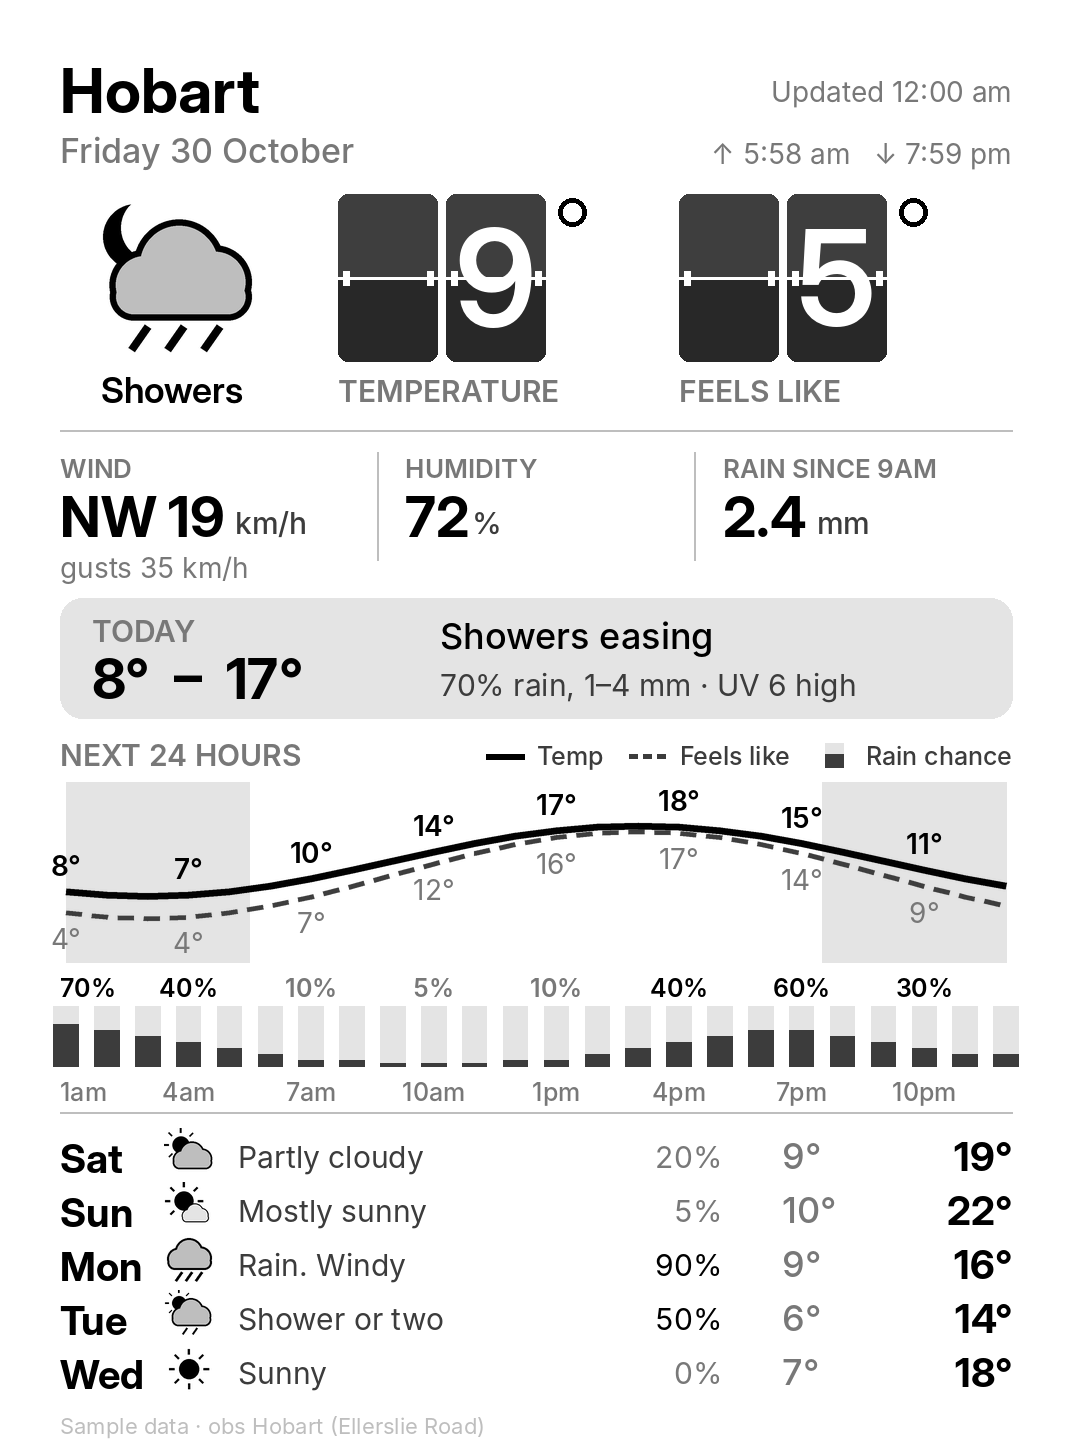
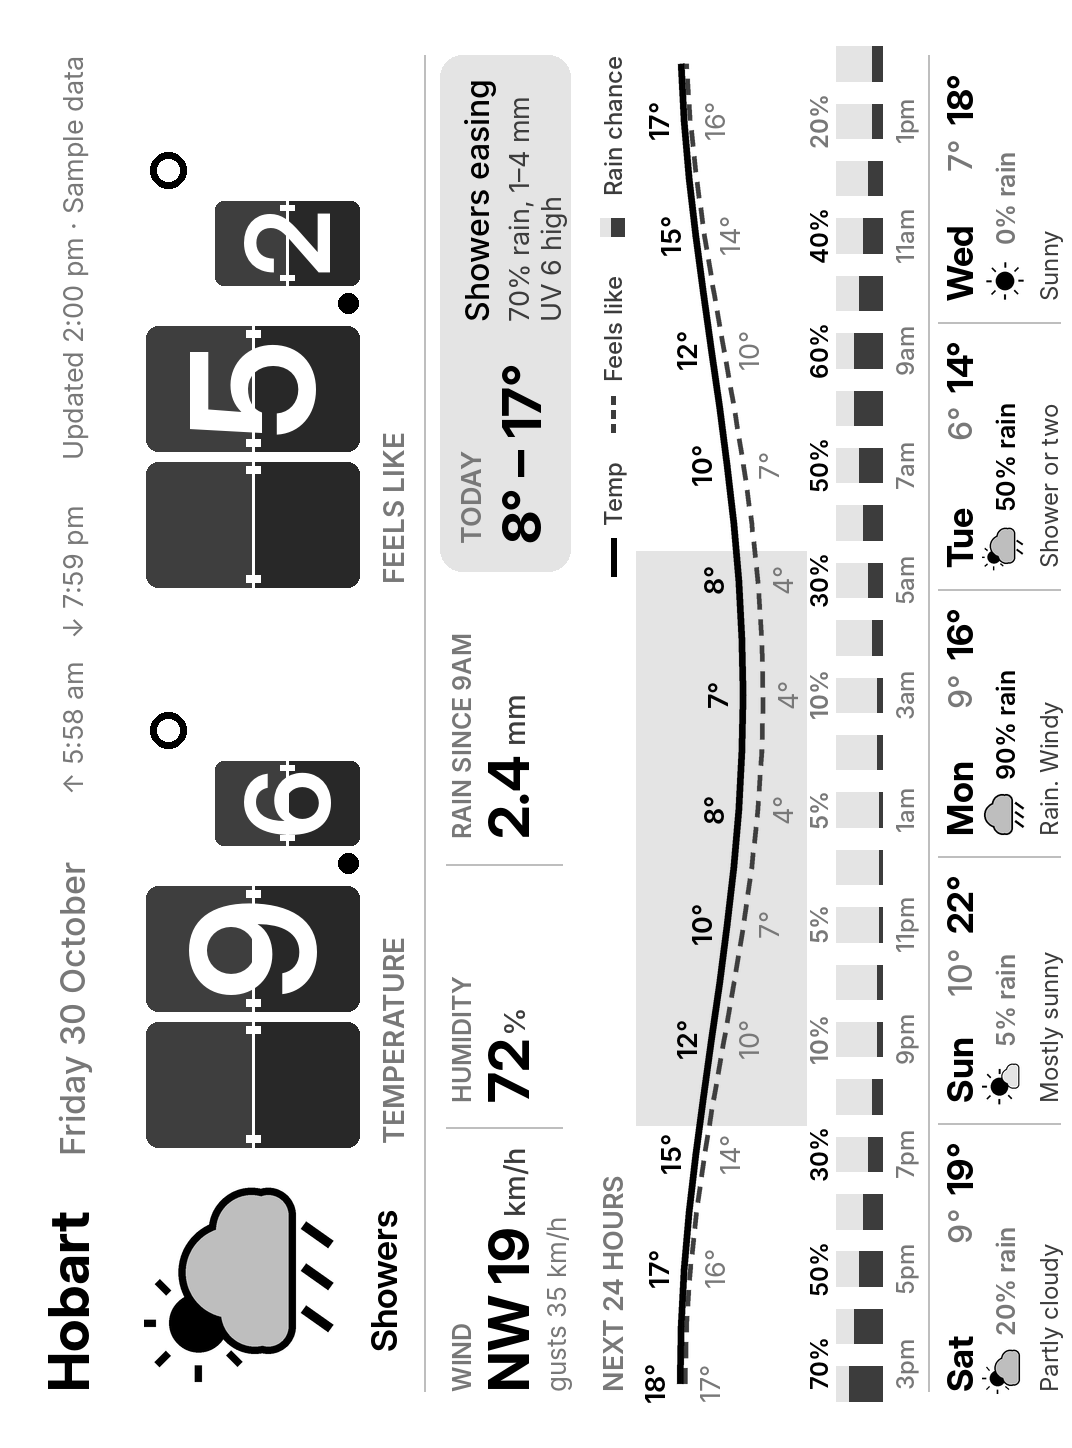
Landscape layout (port on the left), one-decimal flap tiles, partial refresh
- Draw at 1448x1072 and rotate a quarter turn anticlockwise for the Kindle; publish an
  upright preview.png for browsers.
- Temperature and feels like both shown to one decimal place on split-flap tiles.
- delta/update.txt lists the flip frames and the changed rectangles (computed against the
  previous published screen); the Kindle redraws only those, with a full refresh every
  ~3 hours and at 3am. 'Updated' only moves when the screen content changes.
- Kindle extension: in-place updates, pre-drawn offline/low-battery banners, a test that
  exercises every update mode.

Claude-Session: https://claude.ai/code/session_011fPc2cCtWSeq6be4sANHjV

diff --git a/render.py b/render.py
@@ -27,8 +27,8 @@ from PIL import Image, ImageDraw, ImageFont
 PLACE = "Hobart"
 LAT, LON = -42.8821, 147.3272
 TZ = ZoneInfo("Australia/Hobart")
-W, H = 1072, 1448                     # Paperwhite 3 portrait, 300 ppi
-M = 60                                # outer margin
+W, H = 1448, 1072                     # drawn in landscape; rotated to the Kindle's 1072x1448 portrait
+M = 56                                # outer margin
 HERE = Path(__file__).resolve().parent
 FONTS = HERE / "fonts"
 UA = "Mozilla/5.0 (kindle-weather dashboard; personal use)"
@@ -615,76 +615,63 @@ def text_w(d, txt, f):
 
 
 def render(data: dict, now: datetime, updated: datetime | None = None) -> Image.Image:
+    """Draw the dashboard in landscape (1448x1072), as the viewer sees it."""
     img = Image.new("L", (W, H), WHITE)
     d = ImageDraw.Draw(img)
 
-    f_place = font("InterDisplay-Bold", 62)
-    f_date = font("Inter-Medium", 34)
-    f_small = font("Inter-Regular", 28)
-    f_small_b = font("Inter-SemiBold", 28)
-    f_temp = font("InterDisplay-SemiBold", 220)
-    f_cond = font("InterDisplay-SemiBold", 46)
-    f_det = font("Inter-Regular", 33)
-    f_det_b = font("Inter-SemiBold", 33)
-    f_h2 = font("Inter-SemiBold", 30)
-    f_row = font("Inter-Medium", 36)
-    f_row_b = font("InterDisplay-Bold", 40)
-    f_row_s = font("Inter-Regular", 30)
-    f_axis = font("Inter-Medium", 25)
+    f_small = font("Inter-Regular", 27)
+    f_small_b = font("Inter-SemiBold", 27)
+    f_h2 = font("Inter-SemiBold", 27)
+    f_axis = font("Inter-Medium", 24)
 
     days = data.get("days") or []
     hourly = [h for h in (data.get("hourly") or []) if h["time"] and h["time"] > now][:24]
     now_obs = data.get("now") or {}
     today = next((x for x in days if x["date"] == now.date()), days[0] if days else {})
     tomorrow_idx = next((i for i, x in enumerate(days) if x["date"] > now.date()), None)
-
-    # is it night? use today's sunrise/sunset when known
     sr, ss = today.get("sunrise"), today.get("sunset")
     night = bool(sr and ss and not (sr <= now <= ss))
 
     # ---- header
-    y = 52
-    d.text((M, y), PLACE, font=f_place, fill=BLACK)
-    d.text((M, y + 78), now.strftime("%A %-d %B"), font=f_date, fill=MID)
-    upd = f"Updated {fmt_time(updated or now)}"
-    d.text((W - M - text_w(d, upd, f_small), y + 22), upd, font=f_small, fill=MID)
+    d.text((M, 34), PLACE, font=font("InterDisplay-Bold", 56), fill=BLACK)
+    d.text((M + 236, 52), now.strftime("%A %-d %B"), font=font("Inter-Medium", 34), fill=MID)
+    src = " + ".join(sorted(data.get("sources") or []))
+    right = f"Updated {fmt_time(updated or now)}" + (f" · {src}" if src else "")
     if sr and ss:
-        sun = f"↑ {fmt_time(sr)}   ↓ {fmt_time(ss)}"
-        d.text((W - M - text_w(d, sun, f_small), y + 84), sun, font=f_small, fill=MID)
+        right = f"↑ {fmt_time(sr)}   ↓ {fmt_time(ss)}      " + right
+    d.text((W - M - text_w(d, right, f_small), 56), right, font=f_small, fill=MID)
 
-    # ---- hero: icon | temperature | feels like  (equal weight)
-    hero_y = 188
+    # ---- hero: icon | temperature | feels like
     global HERO_BOX
-    HERO_BOX = (M + 270, hero_y, W - M, hero_y + 182)
+    hy = 140
     h0 = hourly[0] if hourly else {}
     icon_now = now_obs.get("icon") or h0.get("icon") or today.get("icon")
-    draw_icon(img, icon_now, (M + 12, hero_y + 2, M + 212, hero_y + 182), night=night)
+    draw_icon(img, icon_now, (M + 6, hy + 4, M + 216, hy + 214), night=night)
     cond = NOW_TEXT.get((icon_now or "").lower(), "")
     if night and cond in ("Sunny", "Mostly sunny"):
         cond = {"Sunny": "Clear", "Mostly sunny": "Mostly clear"}[cond]
     f_cond = font("InterDisplay-SemiBold", 36)
-    d.text((M + 112 - text_w(d, cond, f_cond) / 2, hero_y + 180), cond, font=f_cond, fill=BLACK)
+    d.text((M + 111 - text_w(d, cond, f_cond) / 2, hy + 222), cond, font=f_cond, fill=BLACK)
 
     t_now = now_obs.get("temp") if now_obs.get("temp") is not None else h0.get("temp")
     f_now = now_obs.get("feels") if now_obs.get("feels") is not None else h0.get("feels")
-    col_w = (W - M - (M + 270)) // 2
-    for ci, (val, lab) in enumerate(((t_now, "TEMPERATURE"), (f_now, "FEELS LIKE"))):
-        cx0 = M + 270 + ci * col_w
+    cols = ((t_now, "TEMPERATURE", "temp", 300), (f_now, "FEELS LIKE", "feels", 860))
+    HERO_BOX = (290, hy, W - M, hy + 236)
+    for val, lab, key, cx0 in cols:
         if FLAP:
-            key = "temp" if ci == 0 else "feels"
             specs = (TILE_OVERRIDE or {}).get(key) or list(tile_text(val, 1))
-            draw_flap_number(img, specs, cx0 + 8, hero_y + 6)
+            draw_flap_number(img, specs, cx0, hy + 6, tile_w=126, tile_h=214)
         else:
-            d.text((cx0, hero_y - 22), deg(val), font=font("InterDisplay-SemiBold", 190), fill=BLACK)
-        d.text((cx0 + 8, hero_y + 184), lab, font=font("Inter-SemiBold", 30), fill=MID)
+            d.text((cx0, hy - 30), deg(val), font=font("InterDisplay-SemiBold", 250), fill=BLACK)
+        d.text((cx0 + 4, hy + 236), lab, font=font("Inter-SemiBold", 28), fill=MID)
 
-    # ---- stats strip: wind | humidity | rain since 9am
-    sy0 = 452
-    d.line((M, sy0 - 22, W - M, sy0 - 22), fill=LIGHT, width=2)
-    f_lab = font("Inter-SemiBold", 26)
+    # ---- stats (left) + day panel (right)
+    sy = 446
+    d.line((M, sy - 22, W - M, sy - 22), fill=LIGHT, width=2)
+    f_lab = font("Inter-SemiBold", 25)
     f_val = font("InterDisplay-Bold", 56)
-    f_unit = font("Inter-Medium", 30)
-    f_sub = font("Inter-Regular", 28)
+    f_unit = font("Inter-Medium", 29)
+    f_sub = font("Inter-Regular", 26)
     stats = []
     if now_obs.get("wind_kmh") is not None:
         stats.append(("WIND", f"{now_obs.get('wind_dir') or ''} {round(now_obs['wind_kmh'])}".strip(), " km/h",
@@ -693,31 +680,34 @@ def render(data: dict, now: datetime, updated: datetime | None = None) -> Image.
         stats.append(("HUMIDITY", f"{round(now_obs['humidity'])}", "%", ""))
     if now_obs.get("rain_since_9am") is not None:
         stats.append(("RAIN SINCE 9AM", f"{now_obs['rain_since_9am']:g}", " mm", ""))
-    elif pday_preview := (today.get("rain_chance")):
-        stats.append(("RAIN CHANCE", f"{pday_preview}", "%", "today"))
+    elif today.get("rain_chance") is not None:
+        stats.append(("RAIN CHANCE", f"{today['rain_chance']}", "%", "today"))
+    sx0, sx1 = M, 846
     if stats:
-        sw = (W - 2 * M) / len(stats)
+        sw = (sx1 - sx0) / len(stats)
         for i, (lab, val, unit, sub) in enumerate(stats):
-            x0 = M + i * sw + (0 if i == 0 else 28)
+            x0 = sx0 + i * sw + (0 if i == 0 else 26)
             if i:
-                d.line((M + i * sw, sy0, M + i * sw, sy0 + 108), fill=LIGHT, width=2)
-            d.text((x0, sy0), lab, font=f_lab, fill=MID)
-            d.text((x0, sy0 + 30), val, font=f_val, fill=BLACK)
-            d.text((x0 + text_w(d, val, f_val) + 2, sy0 + 52), unit, font=f_unit, fill=DARK)
+                d.line((sx0 + i * sw, sy, sx0 + i * sw, sy + 116), fill=LIGHT, width=2)
+            d.text((x0, sy), lab, font=f_lab, fill=MID)
+            d.text((x0, sy + 28), val, font=f_val, fill=BLACK)
+            d.text((x0 + text_w(d, val, f_val) + 2, sy + 50), unit, font=f_unit, fill=DARK)
             if sub:
-                d.text((x0, sy0 + 98), sub, font=f_sub, fill=MID)
+                d.text((x0, sy + 94), sub, font=f_sub, fill=MID)
 
-    # ---- day summary panel (today, or tomorrow once it's evening)
-    py0, py1 = 598, 718
     show_tomorrow = now.hour >= 18 and tomorrow_idx is not None
     pday = days[tomorrow_idx] if show_tomorrow else today
-    d.rounded_rectangle((M, py0, W - M, py1), radius=22, fill=PALE)
-    label = "Tomorrow" if show_tomorrow else "Today"
-    d.text((M + 32, py0 + 14), label.upper(), font=f_h2, fill=MID)
-    hi_lo = f"{deg(pday.get('min'))}  –  {deg(pday.get('max'))}"
-    d.text((M + 32, py0 + 46), hi_lo, font=font("InterDisplay-Bold", 56), fill=BLACK)
-    rx = M + 380
-    d.text((rx, py0 + 16), (pday.get("text") or "").rstrip("."), font=f_row, fill=BLACK)
+    px0, py0, px1, py1 = 876, sy - 6, W - M, sy + 124
+    d.rounded_rectangle((px0, py0, px1, py1), radius=22, fill=PALE)
+    d.text((px0 + 28, py0 + 14), ("Tomorrow" if show_tomorrow else "Today").upper(), font=f_h2, fill=MID)
+    d.text((px0 + 28, py0 + 48), f"{deg(pday.get('min'))} – {deg(pday.get('max'))}",
+           font=font("InterDisplay-Bold", 54), fill=BLACK)
+    tx = px0 + 250
+    text = (pday.get("text") or "").rstrip(".")
+    f_pt = font("Inter-Medium", 32)
+    while text and text_w(d, text, f_pt) > px1 - tx - 20:
+        text = text[:-2].rstrip() + "…"
+    d.text((tx, py0 + 18), text, font=f_pt, fill=BLACK)
     bits = []
     if pday.get("rain_chance") is not None:
         r = f"{pday['rain_chance']}% rain"
@@ -727,19 +717,20 @@ def render(data: dict, now: datetime, updated: datetime | None = None) -> Image.
         bits.append(r)
     if pday.get("uv") is not None:
         bits.append(f"UV {round(pday['uv'])} {uv_word(pday['uv']).lower()}")
-    d.text((rx, py0 + 68), " · ".join(bits), font=f_row_s, fill=DARK)
+    f_pb = font("Inter-Regular", 27)
+    d.text((tx, py0 + 62), bits[0] if bits else "", font=f_pb, fill=DARK)
+    if len(bits) > 1:
+        d.text((tx, py0 + 94), bits[1], font=f_pb, fill=DARK)
 
-    # ---- hourly chart: temperature (solid) + feels like (dashed) + rain chance bars
-    cy0 = 736
+    # ---- 24-hour chart
+    cy0 = 596
     d.text((M, cy0), "NEXT 24 HOURS", font=f_h2, fill=MID)
-    # legend
     lx = W - M
     for name, kind in (("Rain chance", "bar"), ("Feels like", "dash"), ("Temp", "solid")):
-        tw = text_w(d, name, f_axis)
-        lx -= tw
-        d.text((lx, cy0 + 4), name, font=f_axis, fill=DARK)
+        lx -= text_w(d, name, f_axis)
+        d.text((lx, cy0 + 2), name, font=f_axis, fill=DARK)
         lx -= 50
-        ly = cy0 + 20
+        ly = cy0 + 17
         if kind == "solid":
             d.line((lx, ly, lx + 38, ly), fill=BLACK, width=6)
         elif kind == "dash":
@@ -748,10 +739,11 @@ def render(data: dict, now: datetime, updated: datetime | None = None) -> Image.
         else:
             d.rectangle((lx + 10, ly - 13, lx + 28, ly + 11), fill=PALE)
             d.rectangle((lx + 10, ly - 2, lx + 28, ly + 11), fill=DARK)
-        lx -= 26
-    gx0, gx1 = M + 6, W - M - 6
-    gt0, gt1 = cy0 + 90, cy0 + 186          # temperature band
-    gr0, gr1 = cy0 + 270, cy0 + 330         # rain-chance band (0-100%)
+        lx -= 30
+    gx0, gx1 = M + 8, W - M - 8
+    gt0, gt1 = cy0 + 84, cy0 + 170          # temperature band
+    gr0, gr1 = cy0 + 240, cy0 + 286         # rain-chance band
+    every = 2
     if len(hourly) >= 2:
         vals = [v for h in hourly for v in (h.get("temp"), h.get("feels")) if v is not None]
         tmin, tmax = math.floor(min(vals)), math.ceil(max(vals))
@@ -768,25 +760,18 @@ def render(data: dict, now: datetime, updated: datetime | None = None) -> Image.
         for i, h in enumerate(hourly):          # night shading
             if h.get("is_night"):
                 xa = xs[i] - step / 2
-                d.rectangle((max(gx0, xa), gt0 - 44, min(gx1, xa + step), gt1 + 40), fill=PALE)
-        # rain chance: one pale 0-100% track per hour, filled to the chance; % row above
-        f_pct = font("Inter-SemiBold", 25)
+                d.rectangle((max(gx0 - 8, xa), gt0 - 44, min(gx1 + 8, xa + step), gt1 + 40), fill=PALE)
+        f_pct = font("Inter-SemiBold", 24)
         bw = max(6, step * 0.6)
-        for i, h in enumerate(hourly):
+        for i, h in enumerate(hourly):          # rain tracks + fill
             rc = max(0, min(100, h.get("rain_chance") or 0))
             d.rectangle((xs[i] - bw / 2, gr0, xs[i] + bw / 2, gr1), fill=PALE)
             if rc > 0:
                 d.rectangle((xs[i] - bw / 2, gr1 - max(3, (gr1 - gr0) * rc / 100), xs[i] + bw / 2, gr1), fill=DARK)
-        for i, h in enumerate(hourly):
-            if i % 3 or h.get("rain_chance") is None:
-                continue
-            rc = round(h["rain_chance"])
-            lab = f"{rc}%"
-            lw_ = text_w(d, lab, f_pct)
-            xl = min(max(xs[i] - lw_ / 2, gx0 - 6), gx1 - lw_ + 6)
-            d.text((xl, gr0 - 34), lab, font=f_pct, fill=BLACK if rc >= 30 else MID)
+
         k = 3                                   # lines, supersampled
         LW, LH = gx1 - gx0 + 40, gt1 - gt0 + 100
+
         def series(key):
             return [((x - gx0 + 20) * k, (ty(h[key]) - gt0 + 50) * k)
                     for x, h in zip(xs, hourly) if h.get(key) is not None]
@@ -808,59 +793,78 @@ def render(data: dict, now: datetime, updated: datetime | None = None) -> Image.
                     acc += run
                     if acc >= (dash if on else gap) - 1e-6:
                         acc, on = 0.0, not on
-            fl = fl.resize((LW, LH), Image.LANCZOS)
-            img.paste(DARK, (gx0 - 20, gt0 - 50), fl)
+            img.paste(DARK, (gx0 - 20, gt0 - 50), fl.resize((LW, LH), Image.LANCZOS))
         if len(temp_pts) >= 2:
             tl = Image.new("L", (LW * k, LH * k), 0)
-            td = ImageDraw.Draw(tl)
-            td.line(temp_pts, fill=255, width=7 * k, joint="curve")
-            tl = tl.resize((LW, LH), Image.LANCZOS)
-            img.paste(BLACK, (gx0 - 20, gt0 - 50), tl)
+            ImageDraw.Draw(tl).line(temp_pts, fill=255, width=7 * k, joint="curve")
+            img.paste(BLACK, (gx0 - 20, gt0 - 50), tl.resize((LW, LH), Image.LANCZOS))
 
-        for i, h in enumerate(hourly):          # labels every 3 hours
-            if i % 3:
+        for i, h in enumerate(hourly):          # labels every 2 hours
+            if i % every:
                 continue
             t, fe = h.get("temp"), h.get("feels")
             if t is not None:
                 above = fe is None or t >= fe
                 lab = deg(t)
                 lw_ = text_w(d, lab, f_small_b)
-                d.text((xs[i] - lw_ / 2, ty(t) - 44 if above else ty(t) + 10), lab, font=f_small_b, fill=BLACK)
+                d.text((xs[i] - lw_ / 2, ty(t) - 42 if above else ty(t) + 10), lab, font=f_small_b, fill=BLACK)
             if fe is not None and round(fe) != round(t if t is not None else -99):
                 lab = deg(fe)
                 lw_ = text_w(d, lab, f_small)
                 below = t is None or fe < t
-                d.text((xs[i] - lw_ / 2, ty(fe) + 8 if below else ty(fe) - 42), lab, font=f_small, fill=MID)
+                d.text((xs[i] - lw_ / 2, ty(fe) + 8 if below else ty(fe) - 40), lab, font=f_small, fill=MID)
+            rc = h.get("rain_chance")
+            if rc is not None:
+                lab = f"{round(rc)}%"
+                lw_ = text_w(d, lab, f_pct)
+                d.text((min(max(xs[i] - lw_ / 2, gx0 - 6), gx1 - lw_ + 6), gr0 - 32), lab, font=f_pct,
+                       fill=BLACK if rc >= 30 else MID)
             lab = fmt_hour(h["time"])
             lw_ = text_w(d, lab, f_axis)
-            d.text((min(max(xs[i] - lw_ / 2, gx0 - 6), gx1 - lw_ + 6), gr1 + 10), lab, font=f_axis, fill=MID)
+            d.text((min(max(xs[i] - lw_ / 2, gx0 - 6), gx1 - lw_ + 6), gr1 + 8), lab, font=f_axis, fill=MID)
 
-    # ---- next days
-    ry = 1130
-    d.line((M, ry - 18, W - M, ry - 18), fill=LIGHT, width=2)
+    # ---- next five days, as columns
+    ry = 938
+    d.line((M, ry - 10, W - M, ry - 10), fill=LIGHT, width=2)
     start = (tomorrow_idx + 1) if show_tomorrow else (tomorrow_idx or 1)
-    rows = [x for x in days[start:start + 5]]
-    row_h = 54
+    rows = days[start:start + 5]
+    cw = (W - 2 * M) / 5
+    f_day = font("InterDisplay-Bold", 36)
+    f_hi = font("InterDisplay-Bold", 36)
+    f_lo = font("Inter-Medium", 32)
+    f_txt = font("Inter-Regular", 24)
     for i, day in enumerate(rows):
-        y0 = ry + i * row_h
-        d.text((M, y0 + 4), day["date"].strftime("%a"), font=f_row_b, fill=BLACK)
-        draw_icon(img, day.get("icon"), (M + 104, y0 - 2, M + 154, y0 + 48))
-        d.text((M + 178, y0 + 8), (day.get("text") or "").rstrip("."), font=f_row_s, fill=DARK)
+        x0 = M + i * cw + (0 if i == 0 else 22)
+        if i:
+            d.line((M + i * cw, ry, M + i * cw, ry + 122), fill=LIGHT, width=2)
+        d.text((x0, ry), day["date"].strftime("%a"), font=f_day, fill=BLACK)
+        hi, lo = deg(day.get("max")), deg(day.get("min"))
+        xr = M + (i + 1) * cw - 18
+        d.text((xr - text_w(d, hi, f_hi), ry), hi, font=f_hi, fill=BLACK)
+        d.text((xr - text_w(d, hi, f_hi) - 14 - text_w(d, lo, f_lo), ry + 3), lo, font=f_lo, fill=MID)
+        draw_icon(img, day.get("icon"), (x0 - 2, ry + 44, x0 + 44, ry + 90))
         rc = day.get("rain_chance")
         if rc is not None:
-            rtxt = f"{rc}%"
-            d.text((W - M - 290 - text_w(d, rtxt, f_row_s), y0 + 8), rtxt, font=f_row_s,
+            d.text((x0 + 56, ry + 52), f"{rc}% rain", font=font("Inter-SemiBold", 25),
                    fill=BLACK if rc >= 50 else MID)
-        lo, hi = deg(day.get("min")), deg(day.get("max"))
-        d.text((W - M - 230, y0 + 4), lo, font=f_row, fill=MID)
-        d.text((W - M - text_w(d, hi, f_row_b), y0 + 2), hi, font=f_row_b, fill=BLACK)
+        line = (day.get("text") or "").rstrip(".")
+        while line and text_w(d, line, f_txt) > cw - 40:
+            line = line[:-2].rstrip() + "…"
+        d.text((x0, ry + 96), line, font=f_txt, fill=DARK)
 
-    # ---- footer
-    src = " + ".join(sorted(data.get("sources") or []))
-    station = now_obs.get("station")
-    foot = f"{src}" + (f" · obs {station}" if station else "")
-    d.text((M, H - 36), foot, font=font("Inter-Regular", 22), fill=LIGHT)
     return img
+
+
+def to_device(img: Image.Image) -> Image.Image:
+    """Landscape picture -> the Kindle's native portrait framebuffer, for a Kindle lying on
+    its side with the charging port on the LEFT (picture turned a quarter turn anticlockwise)."""
+    return img.transpose(Image.ROTATE_90)
+
+
+def box_to_device(b):
+    """A landscape rectangle (x0, y0, x1, y1) -> the same area in device coordinates."""
+    x0, y0, x1, y1 = b
+    return (y0, W - x1, y1, W - x0)
 
 
 def hero_values(data: dict, now: datetime):
@@ -919,13 +923,15 @@ def main():
         except ValueError:
             prev_updated = None
     updated = now
-    img = render(data, now, updated)
+    land = render(data, now, updated)
+    img = to_device(land)
     if prev_img is not None and prev_updated and prev_updated.date() == now.date():
-        same = render(data, now, prev_updated)
-        if changed_regions(prev_img, same) == []:
-            img, updated = same, prev_updated
-    hero_box = HERO_BOX
+        same_land = render(data, now, prev_updated)
+        if changed_regions(prev_img, to_device(same_land)) == []:
+            land, img, updated = same_land, to_device(same_land), prev_updated
+    hero_box = box_to_device(HERO_BOX)
     img.save(out, optimize=True)
+    land.save(out.parent / "preview.png", optimize=True)          # upright copy for browsers
     if prev_img is not None and updated is prev_updated:
         out.write_bytes(Path(a.prev_image).read_bytes())          # byte-identical: Kindle does nothing
     digest = hashlib.md5(out.read_bytes()).hexdigest()
@@ -958,7 +964,7 @@ def main():
         for i in range(n):
             TILE_OVERRIDE = {"temp": ft[i] if i < len(ft) else list(state["temp"]),
                              "feels": ff[i] if i < len(ff) else list(state["feels"])}
-            render(data, now, updated).crop(hero_box).save(delta / f"f{i:02d}.png", optimize=True)
+            to_device(render(data, now, updated)).crop(hero_box).save(delta / f"f{i:02d}.png", optimize=True)
             lines.append(f"frame f{i:02d}.png {hero_box[0]} {hero_box[1]}")
             frames += 1
         TILE_OVERRIDE = None

diff --git a/README.md b/README.md
@@ -1,10 +1,12 @@
 # kindle-weather
 
-An always-on Hobart weather screen for a jailbroken Kindle Paperwhite (7th gen, 1072×1448).
+An always-on Hobart weather screen for a jailbroken Kindle Paperwhite (7th gen), used in
+landscape (1448×1072) with the charging port on the left.
 
 - `render.py` fetches the Bureau of Meteorology forecast and observations (falling back to
-  Open-Meteo for anything BOM doesn't return) and draws `dash.png`, plus split-flap
-  animation frames whenever the temperature or feels-like temperature changes.
+  Open-Meteo for anything BOM doesn't return) and draws `dash.png` (rotated for the Kindle),
+  `preview.png` (upright), and `delta/`: split-flap frames when the temperatures change and
+  the changed rectangles, so the Kindle redraws only what changed.
 - `.github/workflows/dash.yml` runs it every 15 minutes and publishes the result to GitHub
   Pages at `https://<owner>.github.io/kindle-weather/dash.png`.
 - `kindle/extensions/weatherdash` is the KUAL extension on the Kindle: it downloads the
